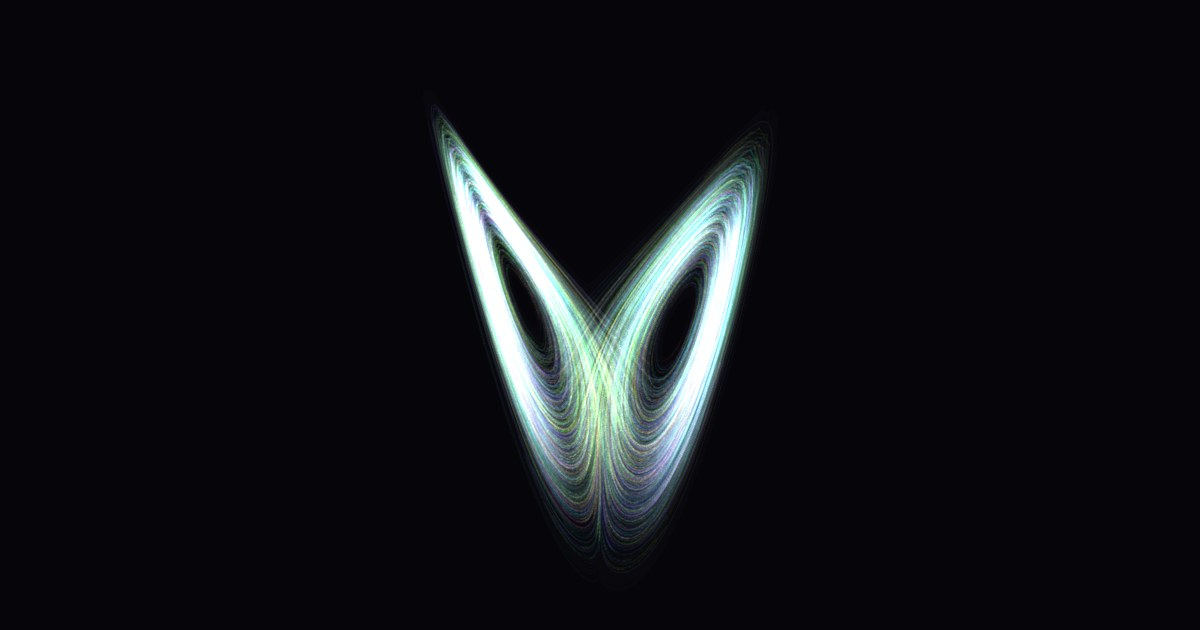
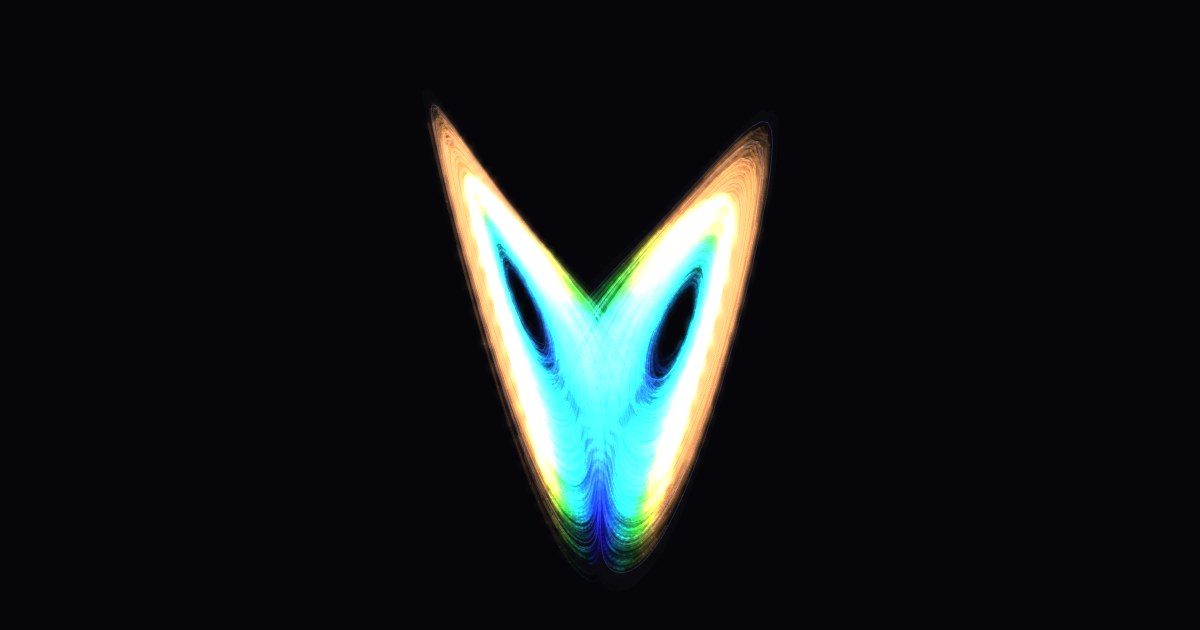
Lorenz: brighter, more colourful rendering
- Colour particles by speed by default (overlapping particles share a colour, so the
  attractor shows vivid violet/cyan/gold bands instead of averaging to white);
  'Colour by: start position' keeps the original rainbow
- Cheap bloom (8x downscale + upscale) with a Glow toggle; thicker trails;
  slightly brighter attractor outline; regenerated thumbnail

Changed region(s): [[0.3392, 0.1508, 0.6475, 0.9048]]

diff --git a/pieces/lorenz/index.html b/pieces/lorenz/index.html
@@ -59,11 +59,11 @@
 (() => {
   'use strict';
   const COUNTS = [1, 100, 1000, 2000, 5000, 10000];
-  const BASE = { n: 2000, spread: 1e-3, rho: 28, sigma: 10, beta: 8 / 3, speed: 1, trail: 0.92, glow: 0.6, ghost: 1 };
+  const BASE = { n: 2000, spread: 1e-3, rho: 28, sigma: 10, beta: 8 / 3, speed: 1, trail: 0.9, glow: 0.3, ghost: 1, bloom: 1, color: 1 };
   const PRESETS = {
     'Butterfly effect': { ...BASE },
     'One path':         { ...BASE, n: 1 },
-    'Storm cloud':      { ...BASE, n: 5000, spread: 20, trail: 0.85, glow: 0.3, warm: 12 },
+    'Storm cloud':      { ...BASE, n: 5000, spread: 20, trail: 0.85, glow: 0.11, warm: 12 },
     'Calm weather':     { ...BASE, rho: 14, spread: 4, trail: 0.93, ghost: 0 },
     'Knot':             { ...BASE, n: 1, rho: 99.96 },
   };
@@ -81,6 +81,7 @@
   let W = 0, H = 0, sim, paused = false, spin = true, dragging = false;
   let px, py, pz;          // previous positions, to draw this frame's motion as segments
   const layer = document.createElement('canvas'), lctx = layer.getContext('2d');   // particle trails fade here
+  const small = document.createElement('canvas'), sctx = small.getContext('2d');   // downscaled copy -> cheap bloom
   let ghost = null, ghostKey = '';   // faint outline of the attractor (one long reference path)
   function ghostPath() {
     const key = [P.rho, P.sigma, P.beta].join();
@@ -93,12 +94,17 @@
   }
   const hist = [];          // single-particle mode: the full path
   const BUCKETS = 64;
-  const color = (b, a) => `hsla(${(b / BUCKETS) * 300 + 10},95%,60%,${a})`;
+  const color = (b, a) => `hsla(${(b / BUCKETS) * 300 + 10},100%,62%,${a})`;
+  // speed palette: slow = deep violet, fast = orange/gold
+  const speedColor = (b, a) => { const t = b / (BUCKETS - 1); return `hsla(${265 - 235 * t},100%,${52 + 14 * t}%,${a})`; };
+  let lastT = 0, bk = new Uint8Array(0), ord = new Int32Array(0);
+  const cnt = new Int32Array(BUCKETS + 1);
 
   function resize() {
     if (P.record) { W = P.w; H = P.h; }
     else { const dpr = Math.min(devicePixelRatio || 1, 2); W = Math.round(innerWidth * dpr); H = Math.round(innerHeight * dpr); }
     canvas.width = layer.width = W; canvas.height = layer.height = H;
+    small.width = Math.max(1, W >> 3); small.height = Math.max(1, H >> 3);
     ctx.fillStyle = '#05050a'; ctx.fillRect(0, 0, W, H);
     lctx.fillStyle = '#000'; lctx.fillRect(0, 0, W, H);
   }
@@ -130,6 +136,7 @@
   function advance(dt) {
     px.set(sim.x); py.set(sim.y); pz.set(sim.z);
     const t = dt * RATE * P.speed;
+    lastT = t;
     sim.step(t, Math.max(1, Math.ceil(t / 0.002)));
     if (sim.n === 1) { hist.push(sim.x[0], sim.y[0], sim.z[0]); if (hist.length > 3 * 40000) hist.splice(0, 3); }
   }
@@ -158,26 +165,52 @@
     // particle layer: fade, then this frame's motion as short segments
     lctx.globalCompositeOperation = 'source-over';
     lctx.fillStyle = `rgba(0,0,0,${1 - P.trail})`; lctx.fillRect(0, 0, W, H);
-    lctx.globalCompositeOperation = 'lighter'; lctx.lineWidth = lw * 1.8; lctx.lineCap = 'round';
-    const n = sim.n, per = Math.ceil(n / BUCKETS);
-    for (let b = 0; b * per < n; b++) {
-      lctx.beginPath();
-      for (let i = b * per, e = Math.min(n, (b + 1) * per); i < e; i++) {
-        proj(px[i], py[i], pz[i], tmp, 0); proj(sim.x[i], sim.y[i], sim.z[i], tmp, 2);
-        lctx.moveTo(tmp[0], tmp[1]); lctx.lineTo(tmp[2] + 0.01, tmp[3]);
+    lctx.globalCompositeOperation = 'lighter'; lctx.lineWidth = lw * 2.4; lctx.lineCap = 'round';
+    const n = sim.n;
+    const seg = i => { proj(px[i], py[i], pz[i], tmp, 0); proj(sim.x[i], sim.y[i], sim.z[i], tmp, 2);
+      lctx.moveTo(tmp[0], tmp[1]); lctx.lineTo(tmp[2] + 0.01, tmp[3]); };
+    if (P.color) {
+      // colour by speed: particles in the same place move alike, so overlaps stay one vivid colour
+      if (bk.length !== n) { bk = new Uint8Array(n); ord = new Int32Array(n); }
+      if (lastT > 0) {
+        const vmax = 6 * Math.max(P.rho, 5);
+        for (let i = 0; i < n; i++) {
+          const v = Math.hypot(sim.x[i] - px[i], sim.y[i] - py[i], sim.z[i] - pz[i]) / lastT;
+          bk[i] = Math.min(BUCKETS - 1, (v / vmax * BUCKETS) | 0);
+        }
       }
-      lctx.strokeStyle = color(Math.floor(b * per / n * BUCKETS), P.glow); lctx.stroke();
+      cnt.fill(0); for (let i = 0; i < n; i++) cnt[bk[i] + 1]++;
+      for (let b = 0; b < BUCKETS; b++) cnt[b + 1] += cnt[b];
+      const pos = cnt.slice(); for (let i = 0; i < n; i++) ord[pos[bk[i]]++] = i;
+      for (let b = 0; b < BUCKETS; b++) {
+        if (cnt[b] === cnt[b + 1]) continue;
+        lctx.beginPath(); for (let k = cnt[b]; k < cnt[b + 1]; k++) seg(ord[k]);
+        lctx.strokeStyle = speedColor(b, P.glow); lctx.stroke();
+      }
+    } else {
+      const per = Math.ceil(n / BUCKETS);   // colour by starting position (rainbow)
+      for (let b = 0; b * per < n; b++) {
+        lctx.beginPath(); for (let i = b * per, e = Math.min(n, (b + 1) * per); i < e; i++) seg(i);
+        lctx.strokeStyle = color(Math.floor(b * per / n * BUCKETS), P.glow); lctx.stroke();
+      }
     }
     // compose: background, faint attractor outline, particles on top
     ctx.fillStyle = '#05050a'; ctx.fillRect(0, 0, W, H);
     if (P.ghost) {
       const g = ghostPath();
-      ctx.globalCompositeOperation = 'lighter'; ctx.lineWidth = lw; ctx.strokeStyle = 'rgba(150,140,255,0.07)';
+      ctx.globalCompositeOperation = 'lighter'; ctx.lineWidth = lw; ctx.strokeStyle = 'rgba(160,150,255,0.16)';
       ctx.beginPath();
       for (let i = 0; i < g.length / 3; i++) { proj(g[3 * i], g[3 * i + 1], g[3 * i + 2], tmp, 0); i ? ctx.lineTo(tmp[0], tmp[1]) : ctx.moveTo(tmp[0], tmp[1]); }
       ctx.stroke();
     }
     ctx.globalCompositeOperation = 'lighter'; ctx.drawImage(layer, 0, 0);
+    if (P.bloom) {   // glow: shrink the particle layer 8x (averaging = blur) and stretch it back on top
+      sctx.globalCompositeOperation = 'copy'; sctx.imageSmoothingQuality = 'high';
+      sctx.drawImage(layer, 0, 0, small.width, small.height);
+      ctx.imageSmoothingQuality = 'high'; ctx.globalAlpha = 0.6;
+      ctx.drawImage(small, 0, 0, W, H);
+      ctx.globalAlpha = 1;
+    }
     ctx.globalCompositeOperation = 'source-over';
   }
 
@@ -243,6 +276,8 @@
     beta: UI.slider(c, { id: 'beta', label: 'β (beta)', min: 0.5, max: 5, step: 0.01, value: P.beta, format: v => v.toFixed(2), onInput: v => { P.beta = sim.params.beta = v; sync(); } }),
     speed: UI.slider(c, { id: 'speed', label: 'Speed', min: 0.1, max: 3, step: 0.05, value: P.speed, format: v => v.toFixed(2) + '×', onInput: v => { P.speed = v; sync(); } }),
     trail: UI.slider(c, { id: 'trail', label: 'Trails', min: 0, max: 0.97, step: 0.01, value: P.trail, format: v => v.toFixed(2), onInput: v => { P.trail = v; sync(); } }),
+    color: UI.slider(c, { id: 'color', label: 'Colour by', min: 0, max: 1, step: 1, value: P.color, format: v => (v ? 'speed' : 'start position'), onInput: v => { P.color = v; sync(); } }),
+    bloom: UI.slider(c, { id: 'bloom', label: 'Glow', min: 0, max: 1, step: 1, value: P.bloom, format: v => (v ? 'on' : 'off'), onInput: v => { P.bloom = v; sync(); } }),
     ghost: UI.slider(c, { id: 'ghost', label: 'Show the attractor shape', min: 0, max: 1, step: 1, value: P.ghost, format: v => (v ? 'on' : 'off'), onInput: v => { P.ghost = v; sync(); } }),
     glow: UI.slider(c, { id: 'glow', label: 'Brightness', min: 0.02, max: 1, step: 0.01, value: P.glow, format: v => v.toFixed(2), onInput: v => { P.glow = v; sync(); } }),
   };
